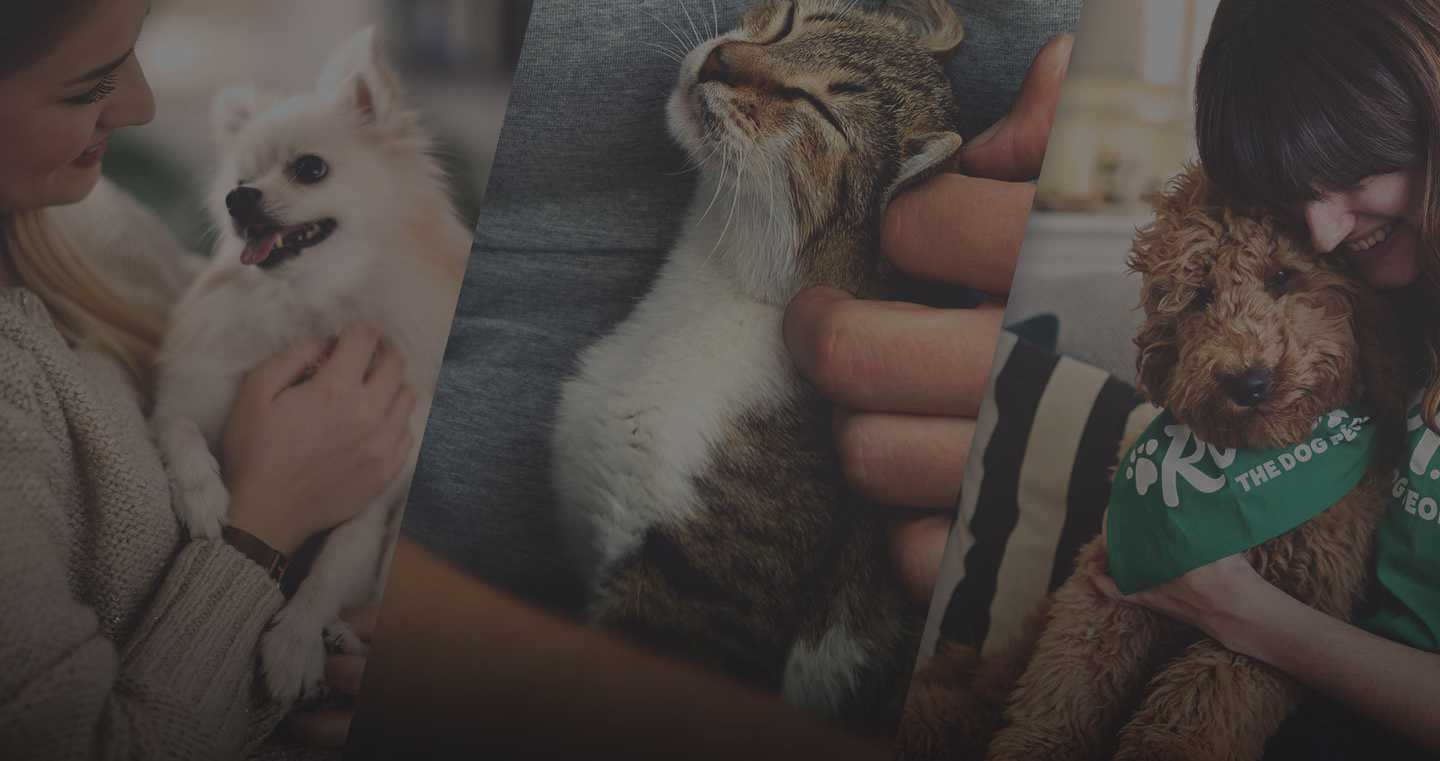
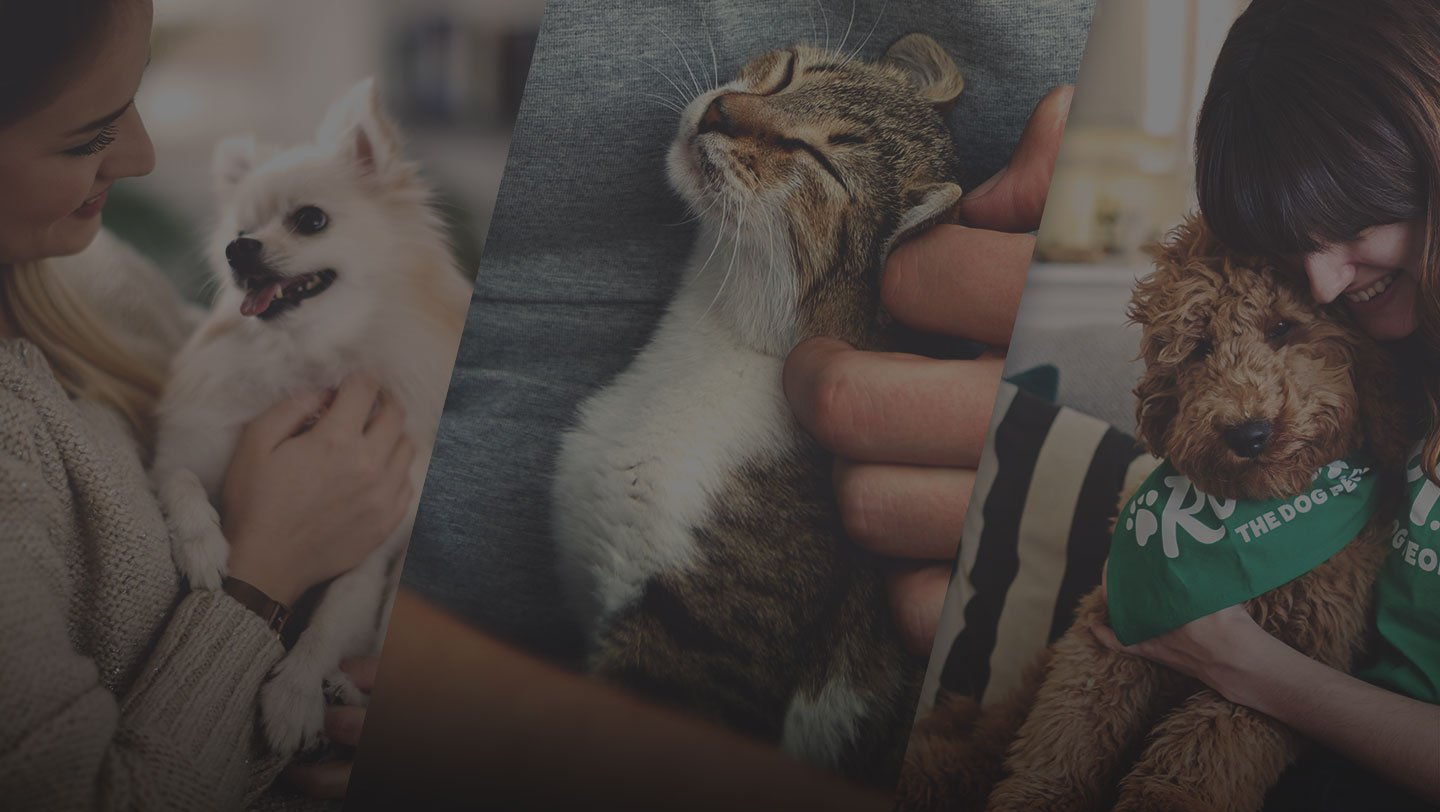
fix background header+filter+walker screen email

diff --git a/src/components/InfoChange/index.js b/src/components/InfoChange/index.js
@@ -14,10 +14,13 @@ import DefaultInput from '../ReusableComponents/DefaultInput';
 class InfoChangeBase extends Component {
 	render() {
 		let services = data.dog.map(item => (
-			<Checkbox name="checkboxes" value={item.text} icon={item.icon} box={classes.box} key={item.text}/>
+			<Checkbox name="checkboxes" value={item.text} icon={item.icon} box={classes.box} key={item.text} />
 		))
 		let dogSizes = data.weights.map(item => (
 			<Checkbox name="dogSizes" value={item.dogSize} text={item.weight} box={classes.box} key={item.dogSize} />
+		))
+		let daysOfTheWeek = data.daysOfTheWeek.map(item => (
+			<Checkbox name="daysOfTheWeek" value={item.value} box={classes.day} key={item.day} />
 		))
 		let city = this.props.authWalkerInfo.city.split(",")[0]
 		return (
@@ -28,7 +31,8 @@ class InfoChangeBase extends Component {
 						city: city,
 						salary: this.props.authWalkerInfo.salary,
 						checkboxes: this.props.authWalkerInfo.services,
-						dogSizes: this.props.authWalkerInfo.dogSizes
+						dogSizes: this.props.authWalkerInfo.dogSizes,
+						daysOfTheWeek: this.props.authWalkerInfo.daysOfTheWeek
 					}}
 					validationSchema={InfoChangeSchema}
 					onSubmit={values => {
@@ -38,7 +42,8 @@ class InfoChangeBase extends Component {
 									city: values.city,
 									salary: values.salary,
 									services: values.checkboxes,
-									dogSizes: values.dogSizes
+									dogSizes: values.dogSizes,
+									daysOfTheWeek: values.daysOfTheWeek
 						})
 					}}
 					render={({errors, touched}) => (
@@ -64,6 +69,16 @@ class InfoChangeBase extends Component {
 								</div>
 								{errors.dogSizes && touched.dogSizes && (
 									<div className={classes.error}>{errors.dogSizes}</div>
+								)}
+							</div>
+
+							<div className={classes["input-wrapper"]}>
+								<label className={classes.label}>Work days</label>
+								<div className={classes["checkboxes-wrapper"]}>
+									{daysOfTheWeek}
+								</div>
+								{errors.daysOfTheWeek && touched.daysOfTheWeek && (
+									<div className={classes.error}>{errors.daysOfTheWeek}</div>
 								)}
 							</div>
 

diff --git a/src/components/WalkersComponent/index.js b/src/components/WalkersComponent/index.js
@@ -28,7 +28,6 @@ class WalkersComponentBase extends Component {
 					uid: key
 				}))
 				let filtered = this.filter(walkersList, this.props.search)
-				console.log(filtered, '11111111111')
 				this.setState({
 					loading: true,
 					walkers: filtered.length ? filtered : null
@@ -48,11 +47,9 @@ class WalkersComponentBase extends Component {
 			return filterKeys.every(key => {
 				if(!filters[key].length) return true
 				if(key === 'regularity') return true
-				// if(key === 'dogSizes' || key === 'daysOfTheWeek') {
-				// 	item[key].forEach(property => {
-				// 		return filters[key].includes(property)
-				// 	})
-				// }
+				if(key === 'dogSizes' || key === 'daysOfTheWeek') {
+					return filters[key].every(property => item[key].indexOf(property) !== -1)
+				}
 				if(key === 'services') {
 					return item[key].indexOf(filters[key]) === -1 ? false : true
 				} else {
@@ -64,7 +61,7 @@ class WalkersComponentBase extends Component {
 
 	render() {
 		const { walkers, loading } = this.state;
-		console.log(this.state, 'state')
+		// console.log(this.props.search, 'search')
 		if (!loading) {
 			return (
 				<div className={classes.loading}>
@@ -93,9 +90,9 @@ class WalkersComponentBase extends Component {
 						))}
 					</div>
 				) : (
-					<div>
-						We couldn't find any sitters that matched your criteria.
-						Try changing your search criteria or updating your location.
+					<div className={classes["without-walkers"]}>
+						<h1 className={classes.h1}>We couldn't find any sitters that matched your criteria.</h1>
+						<h2 className={classes.h2}>Try changing your search criteria or updating your location.</h2>
 					</div>
 				)}
 			</div>

diff --git a/src/screens/Walker/index.js b/src/screens/Walker/index.js
@@ -43,7 +43,7 @@ class WalkerBase extends Component {
 				return item.text === service ? 
 					(
 						<div key={item.name}>
-							<h4 className={classes.h4}>{item.text}</h4>
+							<h5 className={classes.h5}>{item.text}</h5>
 							<p className={classes["description"]}>{item.description}</p>
 						</div>
 					) :
@@ -57,7 +57,7 @@ class WalkerBase extends Component {
 				return item.dogSize === size ?
 					(
 						<div key={item.dogSize}>
-							<h4 className={classes.h4}>{item.dogSize}</h4>
+							<h5 className={classes.h5}>{item.dogSize}</h5>
 							<p className={classes["description"]}>{item.weight}</p>
 						</div>
 					) :
@@ -75,11 +75,12 @@ class WalkerBase extends Component {
 					<div className={classes["info-wrapper"]}>
 						<h1 className={classes.h1}>{this.state.info.name}</h1>
 						<h2 className={classes.h2}>{this.state.info.city}</h2>
+						<h3 className={classes.h3}>{this.state.info.email}</h3>
 						<button type="button" className={classes.btn}>Contact {this.state.info.name}</button>
 					</div>
 				</div>
 				<div className={classes["services-wrapper"]}>
-					<h3 className={classes.h3}>Services</h3>
+					<h4 className={classes.h4}>Services</h4>
 					{services}
 					<p className={classes.salary}>{this.state.info.salary}$</p>
 				</div>

diff --git a/src/screens/Registration/index.js b/src/screens/Registration/index.js
@@ -79,7 +79,8 @@ class RegistrationBase extends Component {
 											salary: values.salary,
 											photo: this.state.imageSrc ? this.state.imageSrc : 'https://firebasestorage.googleapis.com/v0/b/dogwalker-88634.appspot.com/o/nouser.png?alt=media&token=c9ac80be-94e4-4129-92f7-2dbba891175b',
 											services: values.checkboxes,
-											dogSizes: values.dogSizes
+											dogSizes: values.dogSizes,
+											daysOfTheWeek: ['Mon', 'Tue', 'Wed', 'Thu', 'Fri']
 										})
 								})
 								.then(() => {

diff --git a/src/screens/Walker/Walker.module.css b/src/screens/Walker/Walker.module.css
@@ -5,9 +5,10 @@
 
 .walker {
 	max-width: 1100px;
-	margin: 0 auto 20px;
+	margin: 20px auto;
 	background-color: white;
 	padding: 20px;
+	border-radius: 4px;
 }
 
 .avatar-wrapper {
@@ -33,6 +34,12 @@
 	font-size: 20px;
 }
 
+.h3 {
+	margin: 0;
+	color: gray;
+	font-size: 16px;
+}
+
 .btn {
 	background-color: #14a96d;
 	color: white;
@@ -50,13 +57,13 @@
 	border-radius: 8px;
 }
 
-.h3 {
+.h4 {
 	margin: 0;
 	font-size: 25px;
 	color: gray;
 }
 
-.h4 {
+.h5 {
 	margin-bottom: 10px;
 	font-size: 16px;
 }

diff --git a/src/components/MainContent/MainContent.module.css b/src/components/MainContent/MainContent.module.css
@@ -1,16 +1,17 @@
 .localLovingPetCare{
   background: url(../../images/search-background.jpg);
+  background-position: top;
+	background-size: cover;
   min-height: 500px;
   color: white;
   text-align: center;
   line-height: 1.4;
   max-height: 750px;
-  padding-bottom: 150px;
+  padding: 50px 0;
 }
 
 .h1{
   font-size: 32px;
-  padding-top: 50px;
   line-height: 1.4;
   font-weight: 900;
   margin: 0;

diff --git a/src/components/Header/index.js b/src/components/Header/index.js
@@ -17,7 +17,7 @@ class Header extends Component {
 	showMenu = (event) => {
 		event.preventDefault();
 		this.setState({ showMenu: true }, () => {
-			document.querySelector("." + classes.header).style.borderBottom = "1px solid black"
+			document.querySelector("." + classes.header).style.borderBottom = "1px solid #00bd70"
 			document.addEventListener('click', this.closeMenu);
 		})
 	}

diff --git a/src/components/SignInFacebook/index.js b/src/components/SignInFacebook/index.js
@@ -28,6 +28,7 @@ class SignInFacebookBase extends Component {
 									salary: 50,
 									services: [ "Dog Boarding", "House Sitting", "Drop-In Visits", "Doggy Day Care", "Dog Walking" ],
 									dogSizes: [ "Small", "Medium", "Large", "Giant" ],
+									daysOfTheWeek: ['Mon', 'Tue', 'Wed', 'Thu', 'Fri'],
 									photo: socialAuthWalker.user.photoURL
 								})
 						})

diff --git a/src/components/Header/Header.module.css b/src/components/Header/Header.module.css
@@ -25,7 +25,7 @@
 }
 
 .mobile-menu li a {
-	color: black;
+	color: #66727c;
 	text-decoration: none;
 }
 
@@ -36,9 +36,11 @@
 }
 
 @media (min-width: 768px) {
-	.header {
+	/* .header {
 		background: url(../../images/header-background.jpg);
-	}
+		background-position: top;
+		background-size: cover;
+	} */
 
 	.header-content-wrapper {
 		justify-content: start;

diff --git a/src/components/WalkersComponent/WalkersComponent.module.css b/src/components/WalkersComponent/WalkersComponent.module.css
@@ -45,6 +45,10 @@
 	color: #06748a;
 }
 
+.name:hover {
+	text-decoration-line: underline;
+}
+
 .city {
 	margin: 0;
 	font-size: 14px;
@@ -59,6 +63,11 @@
 .salary {
 	margin: 0;
 	font-weight: 700;
+}
+
+.without-walkers {
+	padding: 70px 0;
+	text-align: center;
 }
 
 @media (min-width: 768px) {

diff --git a/src/components/InfoChange/InfoChange.module.css b/src/components/InfoChange/InfoChange.module.css
@@ -32,6 +32,12 @@
 	margin-bottom: 20px;
 }
 
+.day {
+	width: calc(30% - 5px);
+	text-align: center;
+	position: relative;
+}
+
 .label {
 	display: block;
 	margin-bottom: 5px;
@@ -69,5 +75,9 @@
 
 	.box:nth-child(-n+3) {
 		margin-bottom: 0;
+	}
+
+	.day {
+		width: calc(15% - 10px);
 	}
 }

diff --git a/src/config/yupConfig.js b/src/config/yupConfig.js
@@ -76,4 +76,6 @@ export const InfoChangeSchema = Yup.object().shape({
 		.required('At least one service is required'),
 	dogSizes: Yup.array()
 		.required('At least one size is required'),
+	daysOfTheWeek: Yup.array()
+		.required('At least one size is required')
 })
